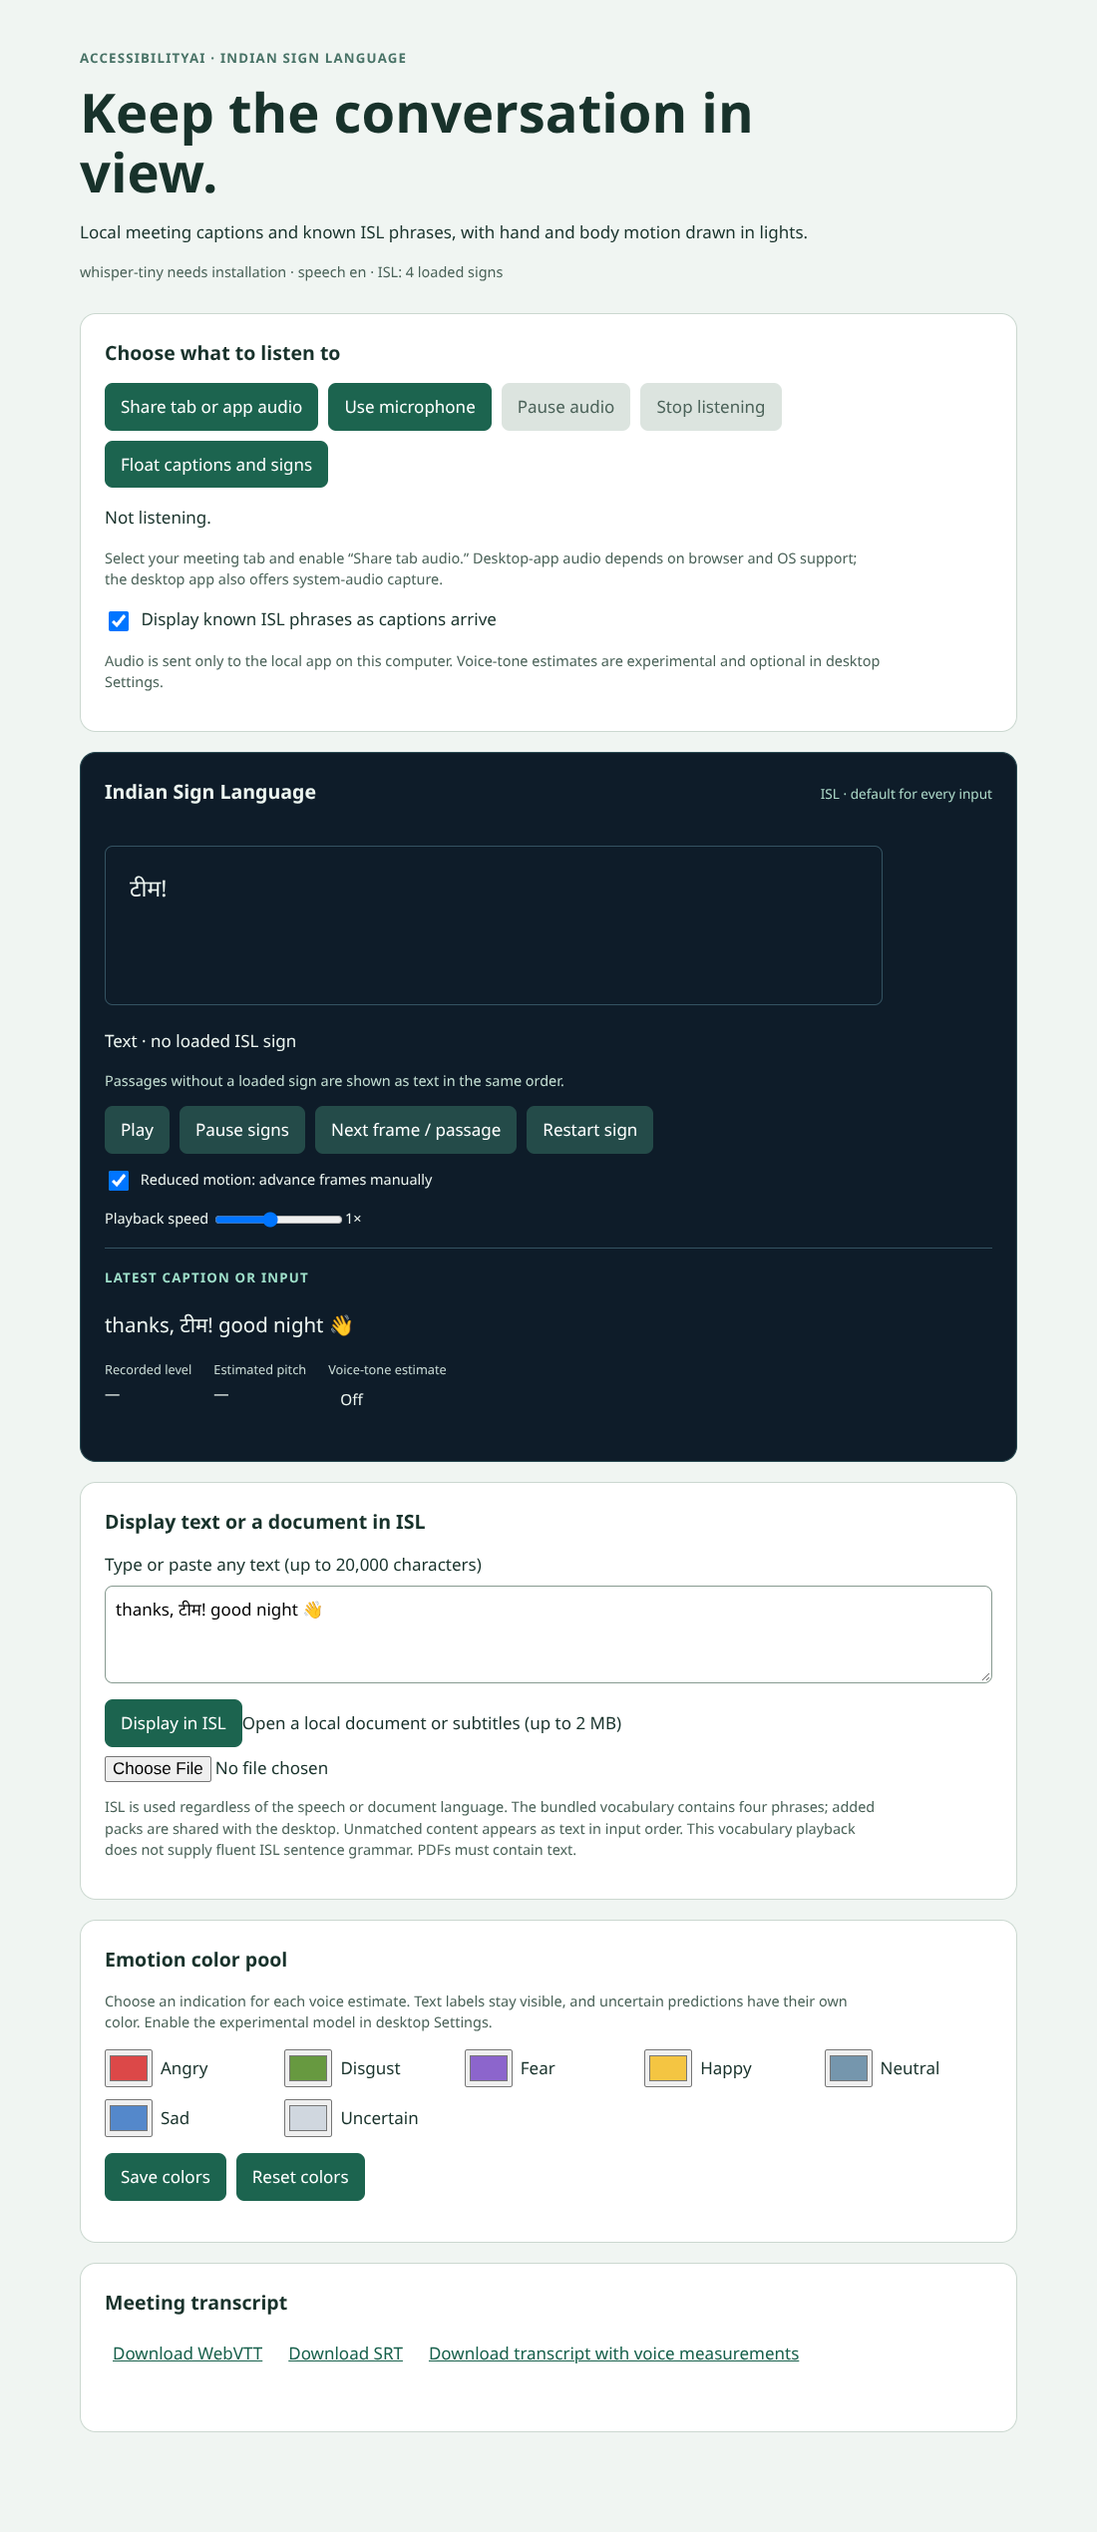
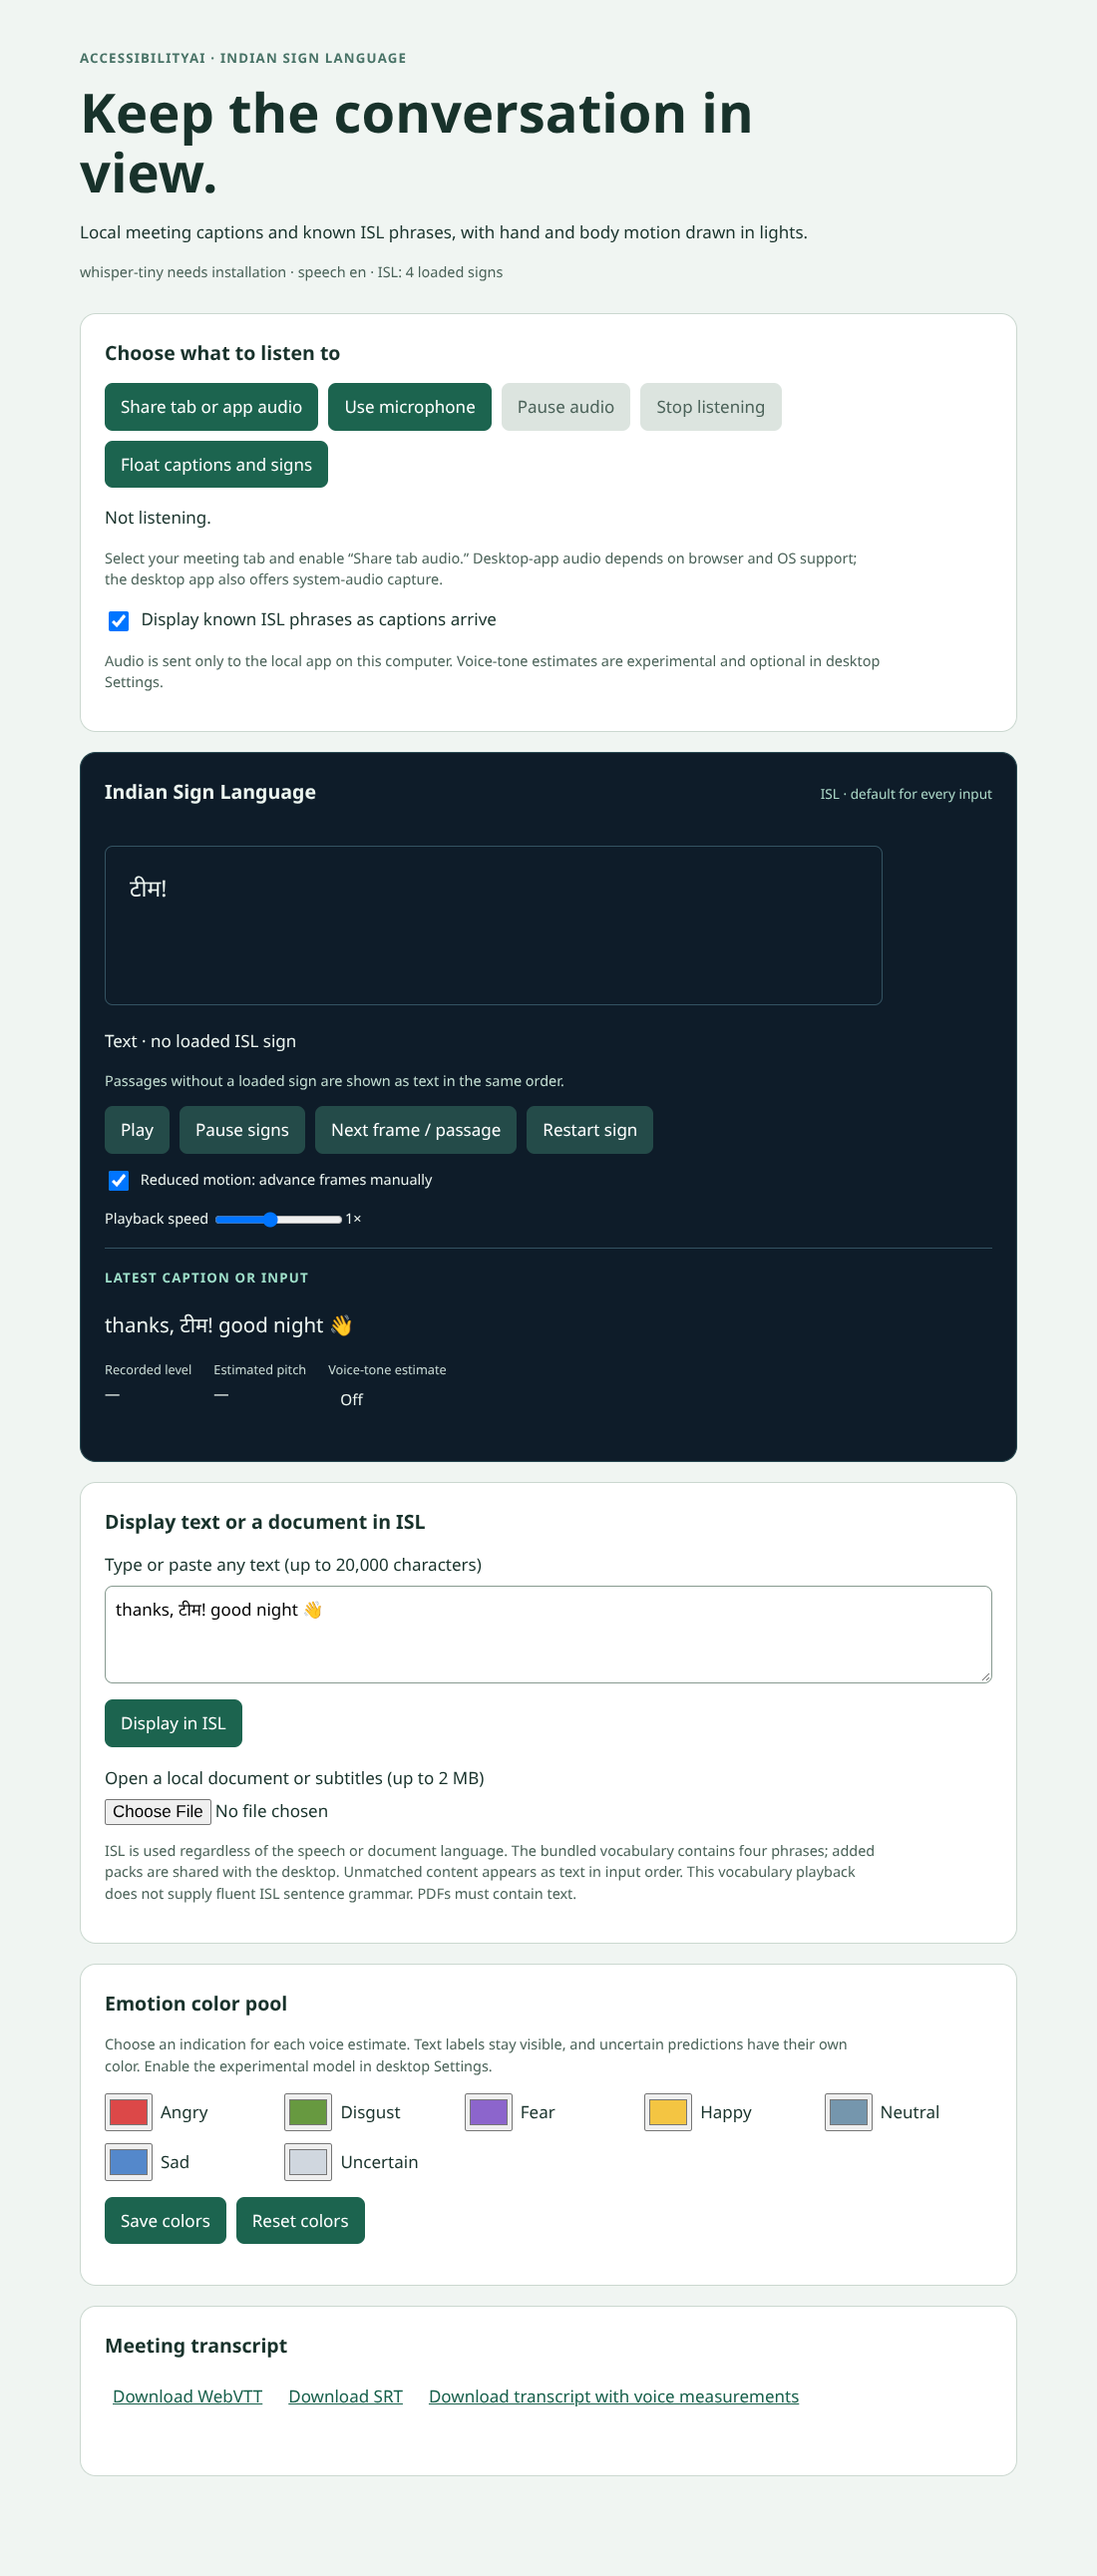
Document verified Windows release and consistent Unicode input limits

diff --git a/browser-extension/popup.js b/browser-extension/popup.js
@@ -14,7 +14,7 @@ button.addEventListener("click",async()=>{
     }});
     const text=result?.result?.trim();
     if(!text)throw new Error("No readable page text was found. Select some text and try again.");
-    if(text.length>20000)throw new Error("Select an extract up to 20,000 characters. The page is too long to open in one playback request.");
+    if(Array.from(text).length>20000)throw new Error("Select an extract up to 20,000 characters. The page is too long to open in one playback request.");
     await chrome.storage.local.set({companionPort:port});
     await chrome.tabs.create({url:`http://127.0.0.1:${port}/#text=${encodeURIComponent(text)}`});
     window.close();

diff --git a/README.md b/README.md
@@ -3,16 +3,18 @@
 A Windows desktop workspace for local captions, Indian Sign Language (ISL) phrase
 playback, and optional voice emotion estimates with customizable colors.
 
-## Portable Windows prototype
+## Windows desktop ZIP
 
-The portable ZIP is assembled from Windows binaries and integrity-checked.
-Windows execution for 0.3.1 still requires its Windows CI checks; the previous
-0.3.0 Windows regression run failed. Treat the archive as a prototype until the
-current [validation report](docs/validation-0.3.1.json) records a Windows pass.
+Windows CI passes 54 Python tests, 14 browser tests, source startup, and startup
+of the packaged native executable. Use the native Windows ZIP from the
+[GitHub release](https://github.com/Vedant-Sood/Audial-AI/releases/tag/v0.3.1).
+The alternative portable Python ZIP is integrity-checked but was not separately
+executed on Windows. See the [validation report](docs/validation-0.3.1.json).
 
 1. Extract the **entire Windows x64 ZIP** to a writable folder.
-2. Double-click **Start AccessibilityAI.bat**. Python and native dependencies are
-   included; you do not need a separate Python installation or `setup.bat`.
+2. In the native ZIP, double-click **AccessibilityAI.exe**. In the alternative
+   portable ZIP, use **Start AccessibilityAI.bat**. Python and native dependencies
+   are included; a separate Python installation or `setup.bat` is unnecessary.
 3. Open **Advanced tools → Models** and install **Whisper tiny** once for captions.
    After downloading, transcription runs locally. ISL playback uses included assets.
 4. Open **Conversation**, choose Microphone or Computer / app audio, and click

diff --git a/docs/upgrade_notes-0.3.1.md b/docs/upgrade_notes-0.3.1.md
@@ -1,0 +1,24 @@
+# AccessibilityAI 0.3.1 delivery
+
+ISL is the fixed default across supported inputs, independent of speech language.
+The native application and browser share vocabulary selection and the automatic
+caption preference. Documents and subtitles use the common text adapter; audio
+and video recordings use completed local speech captions. Long valid plans keep
+every step, including readable unknown text. Added ISL packs extend bundled signs.
+
+Validation passed 54 Python tests, 14 JavaScript tests, a real browser flow, and
+native video → text → pose playback on Linux. Windows CI passed the same source
+checks and startup of the packaged native executable. Its native ZIP is published
+through the gated release workflow. Device capture and caption speed on the user's
+Windows machine remain separate checks; Whisper weights must be installed once.
+
+Shipped ISL coverage remains four phrases. No additional corpus was downloaded
+because current cloud egress blocks Zenodo. This is dictionary playback, not fluent
+arbitrary ISL sentence translation. The emotion model is unchanged: historical
+CREMA-D full-test accuracy 51.6%, with no new Indian-voice benchmark or trained
+Indian model. The 85–90% target remains unmet. See isl.md and model_cards.md.
+
+Reusable setup instructions, exact cloud dependencies and required download
+hosts are saved in the environment draft. Saving the draft did not apply its
+network rules. The workflow uses ordinary read-only validation diagnostics;
+repository write permission is scoped to the explicitly requested release job.
